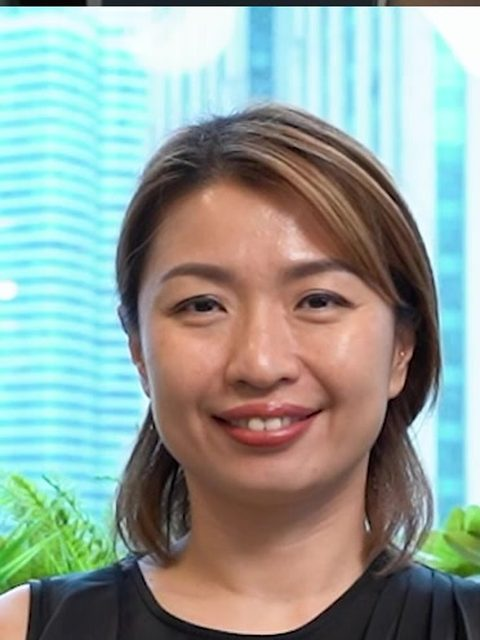
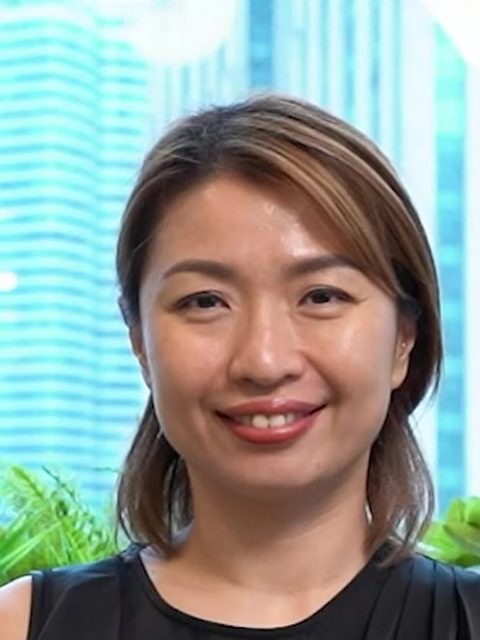
Join Us fixes: loader bar timing, eyes-open portraits, play button off Ceci's face, tighter portrait crop
- Loader: bar fill 0.46s -> 1.5s (sub-fade and fade-out unchanged)
- Team Voices: rebuilt all four portraits from a frame where everyone's eyes are open
- 'Watch Our Story' moved from dead-centre to bottom-right; it was covering Ceci
- 'A Note from Ceci' portrait re-cropped to fill the 3:4 frame instead of floating low

diff --git a/index.html b/index.html
@@ -520,8 +520,8 @@ nav:not(.glass-light) .nav-cta:hover{background:#fff;color:var(--gold);border-co
 .join-hero{height:70vh;position:relative;overflow:hidden;display:flex;align-items:flex-end;}
 .join-hero-bg{position:absolute;inset:0;overflow:hidden;background:#0a1520;}
 .join-hero-bg video,.join-hero-bg img{position:absolute;inset:0;width:100%;height:100%;object-fit:cover;display:block;}
-.jn-hero-playbtn{position:absolute;top:50%;left:50%;transform:translate(-50%,-50%);z-index:3;display:inline-flex;align-items:center;gap:14px;background:rgba(255,255,255,.16);backdrop-filter:blur(14px);-webkit-backdrop-filter:blur(14px);color:#fff;border:1px solid rgba(255,255,255,.4);padding:18px 30px 18px 26px;border-radius:60px;cursor:pointer;font-family:'Jost',sans-serif;font-size:.78rem;letter-spacing:.28em;text-transform:uppercase;transition:background .3s,transform .3s,border-color .3s;}
-.jn-hero-playbtn:hover{background:rgba(200,152,42,.3);border-color:var(--gp);transform:translate(-50%,-50%) scale(1.04);}
+.jn-hero-playbtn{position:absolute;top:auto;bottom:48px;left:auto;right:56px;transform:none;z-index:3;display:inline-flex;align-items:center;gap:14px;background:rgba(255,255,255,.16);backdrop-filter:blur(14px);-webkit-backdrop-filter:blur(14px);color:#fff;border:1px solid rgba(255,255,255,.4);padding:18px 30px 18px 26px;border-radius:60px;cursor:pointer;font-family:'Jost',sans-serif;font-size:.78rem;letter-spacing:.28em;text-transform:uppercase;transition:background .3s,transform .3s,border-color .3s;}
+.jn-hero-playbtn:hover{background:rgba(200,152,42,.3);border-color:var(--gp);transform:scale(1.04);}
 .jn-hero-playbtn svg{flex-shrink:0;}
 .jn-vid-modal{position:fixed;inset:0;z-index:9100;background:rgba(10,24,40,.92);backdrop-filter:blur(6px);-webkit-backdrop-filter:blur(6px);display:none;align-items:center;justify-content:center;padding:40px;opacity:0;transition:opacity .3s;}
 .jn-vid-modal.open{display:flex;opacity:1;}
@@ -2329,7 +2329,7 @@ function doReveal(){
   if(revealed)return; revealed=true;
   var tl=gsap.timeline();
   tl.to('.ld-sub',{opacity:1,duration:.22,ease:'power2.out'})
-    .to('.ld-bar',{width:'100%',duration:.46,ease:'power2.out'},0)
+    .to('.ld-bar',{width:'100%',duration:1.5,ease:'power1.inOut'},0)
     .call(function(){app.style.visibility='visible';})
     .to('#loader',{opacity:0,duration:.28,ease:'power2.inOut'})
     .set('#loader',{display:'none'})
@@ -2348,7 +2348,7 @@ function doReveal(){
   /* The monogram gets a fixed beat on screen (MIN_DWELL) so the brand moment always
      lands the same way, then hands off immediately. Previously this was dead time
      spent waiting on assets, which made the wait vary and feel long. */
-  var MIN_DWELL=1100, t_start=Date.now();
+  var MIN_DWELL=350, t_start=Date.now();
   function goSoon(){
     var wait=Math.max(0,MIN_DWELL-(Date.now()-t_start));
     setTimeout(go,wait);
